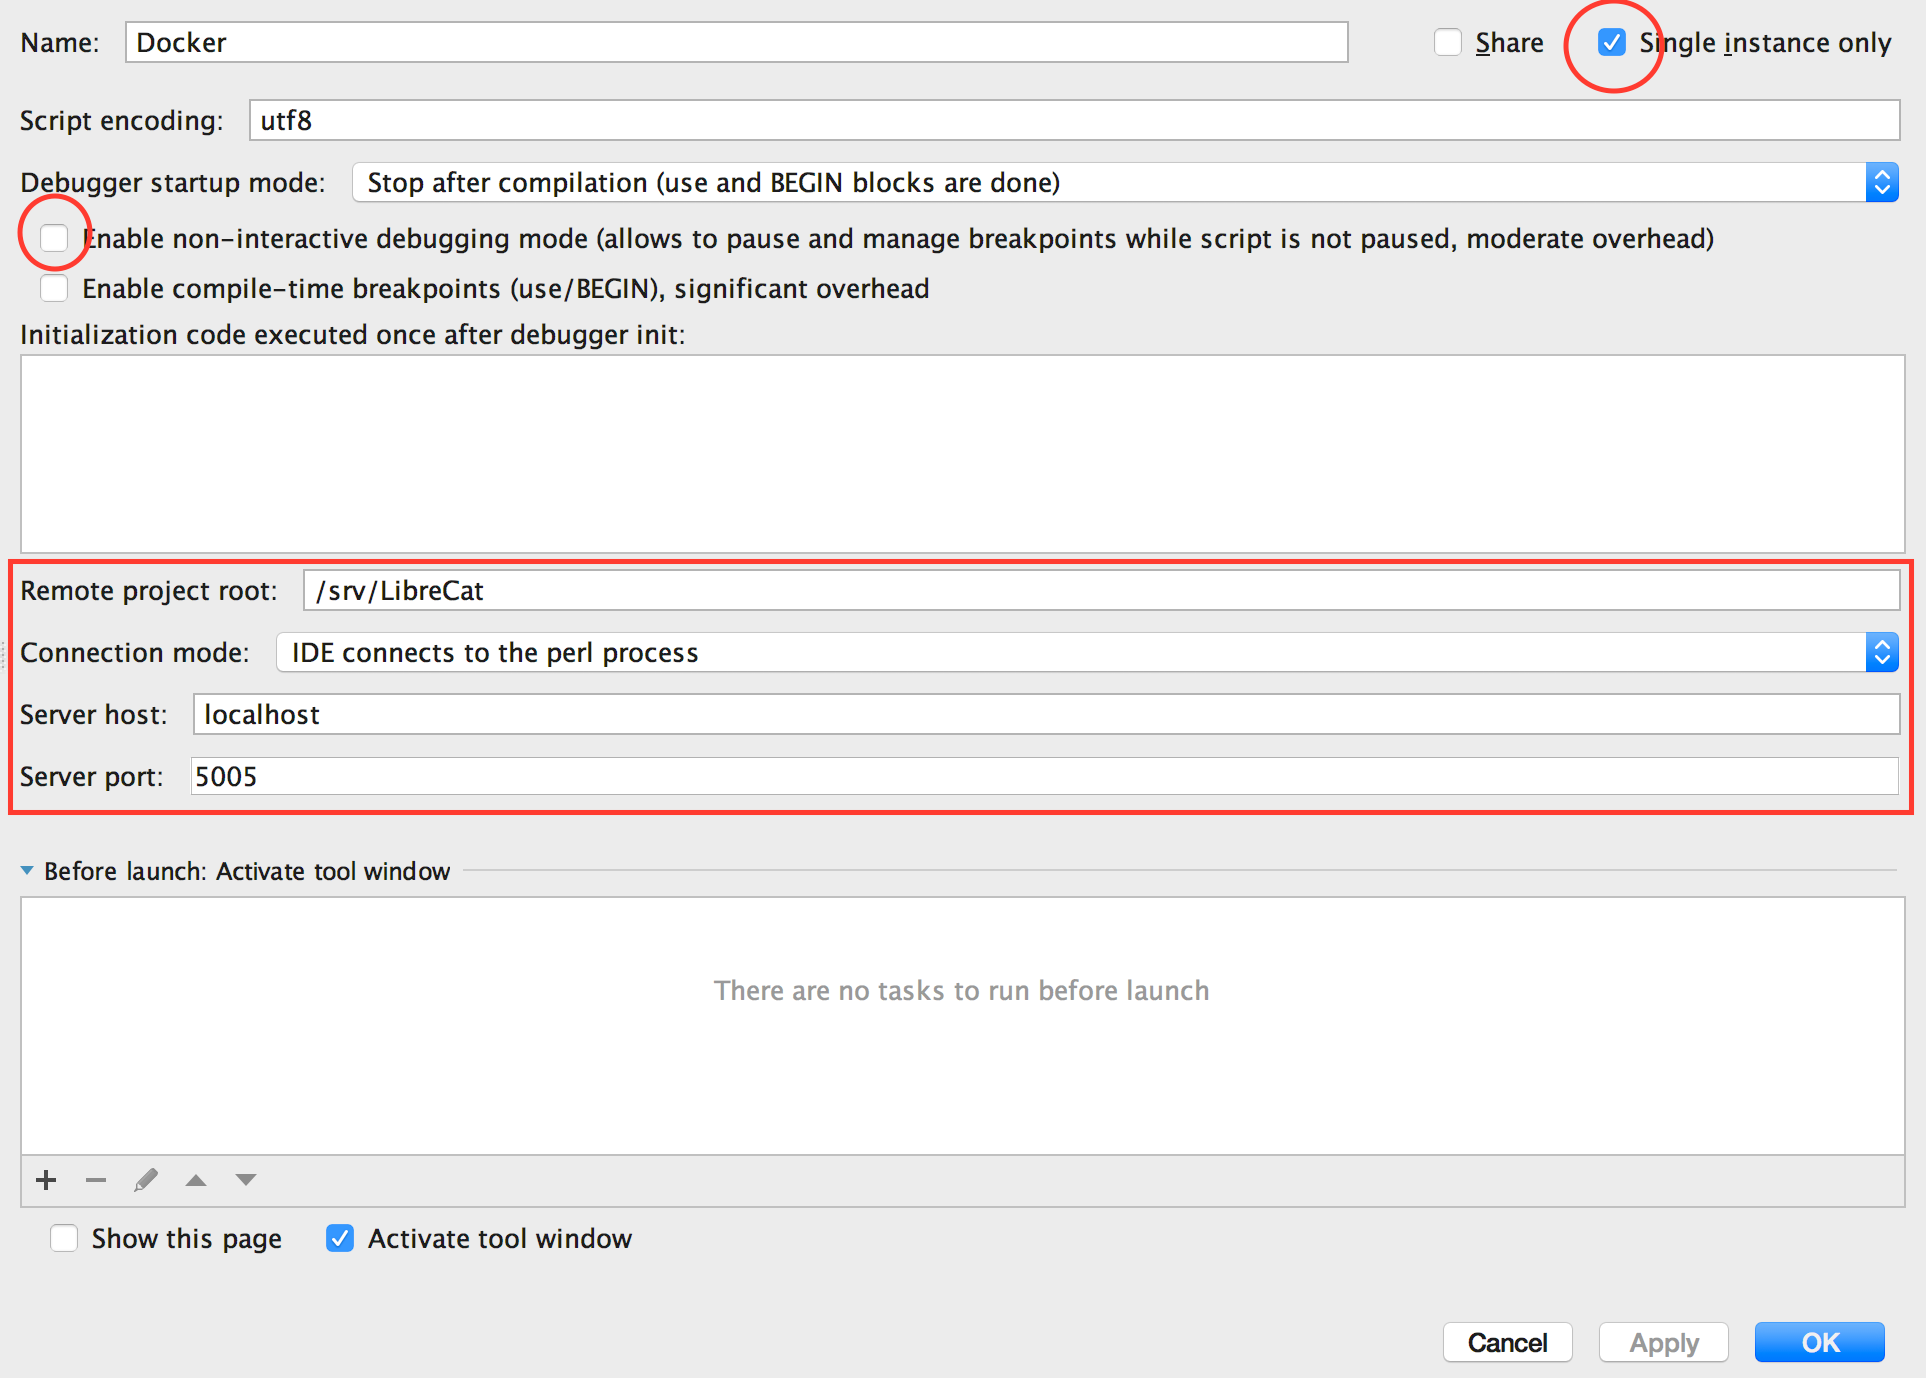
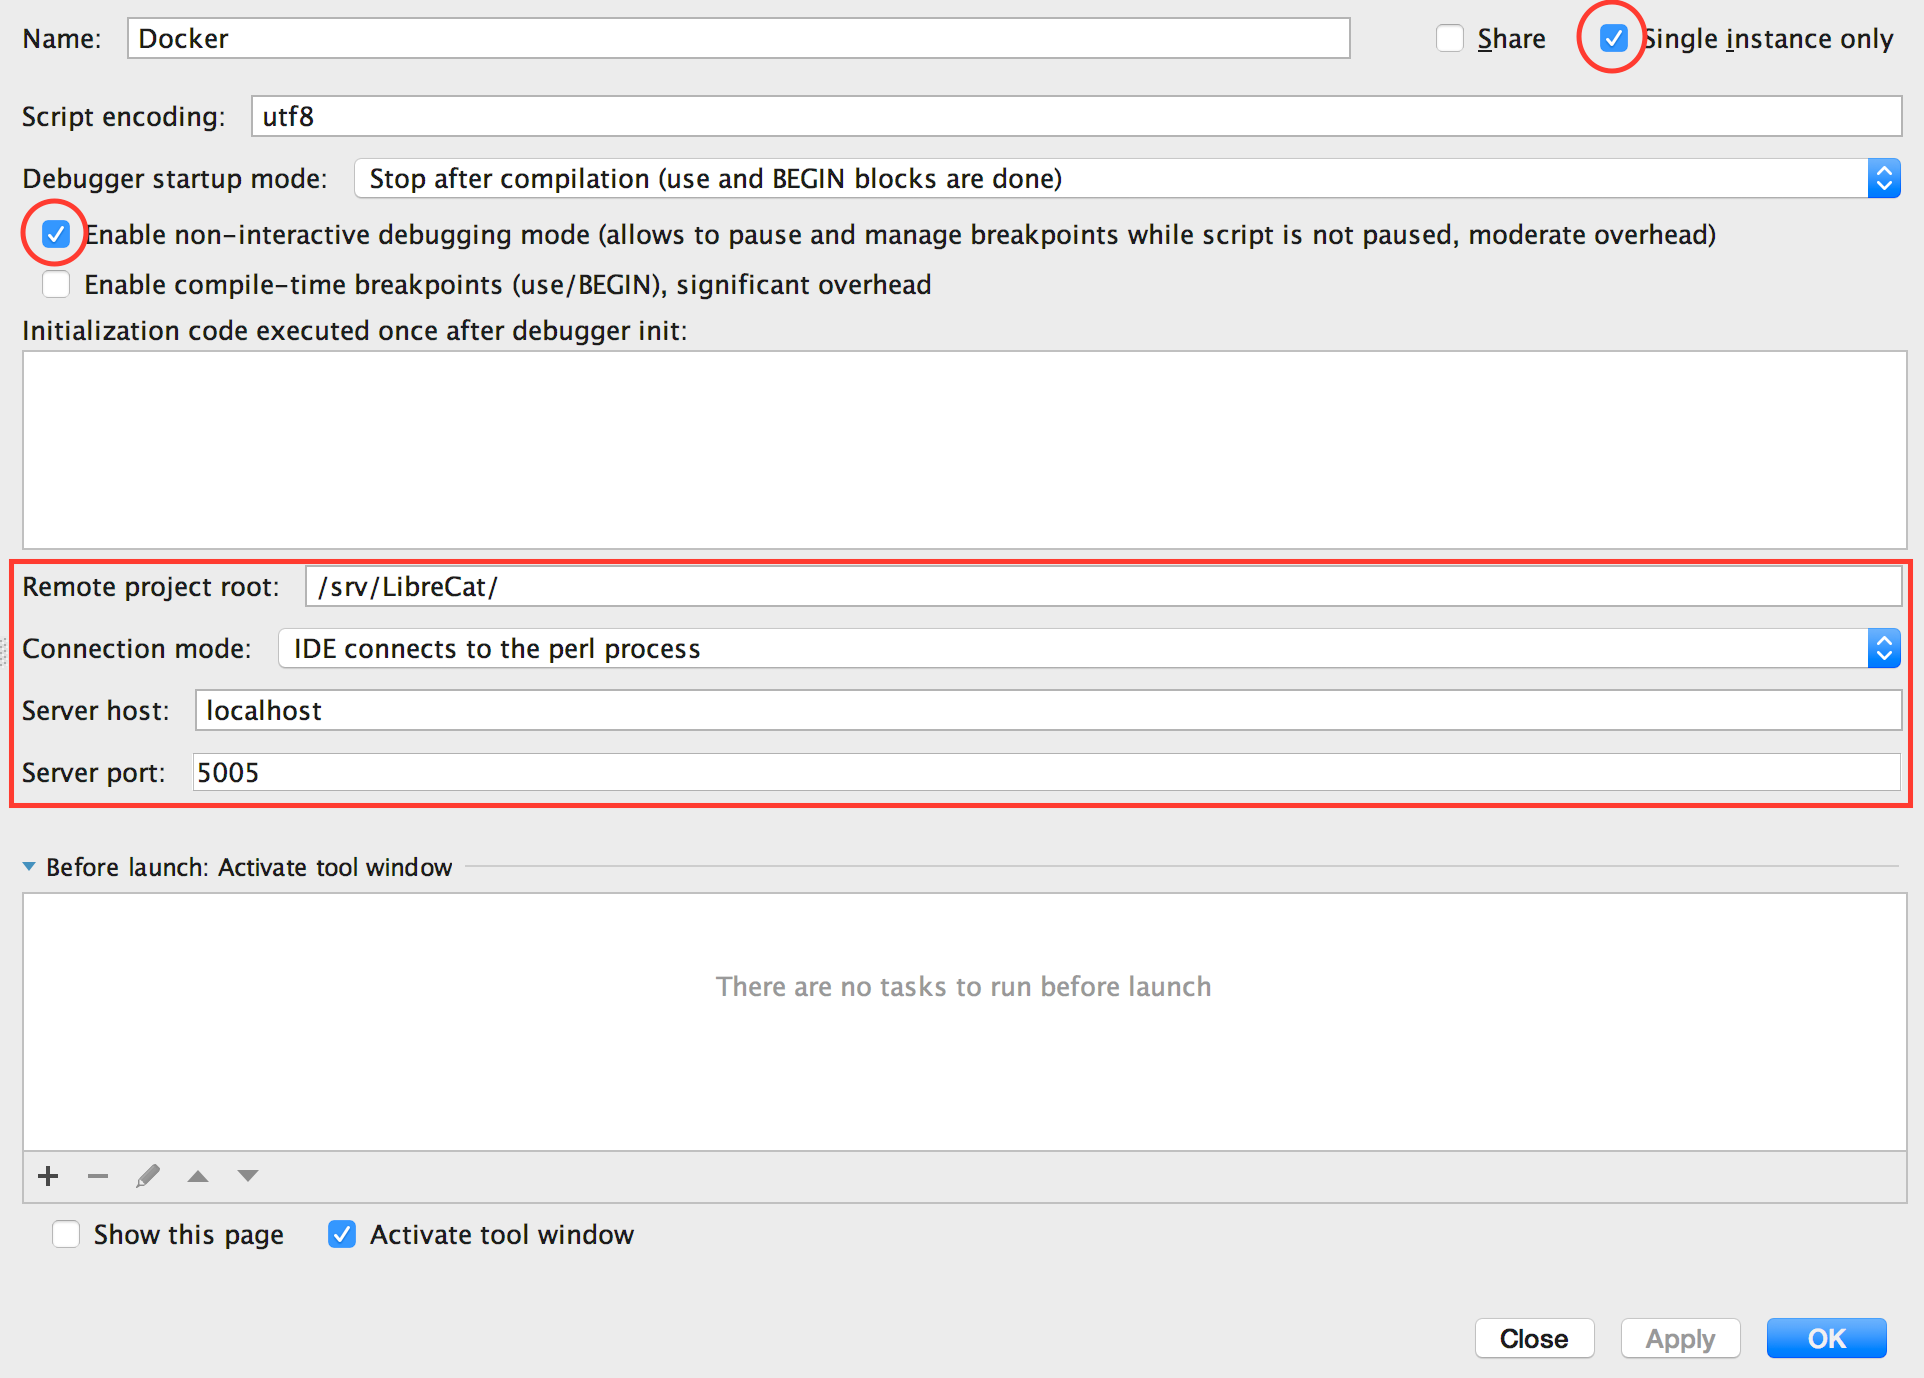
updated docs to make sure the IDE finds the sources

diff --git a/README.md b/README.md
@@ -36,7 +36,7 @@ There is already a documentation how to install and use this bundle in the wiki.
 
 ![Camelcade configuration](docs/img/Camelcade.png)
 
-  Make sure, that 'Single Instance only' is set, enabling non-interactive debugging allows you to suspend the execution at any point, if you take the Docker bundle as provided, the remote project root is `/srv/LibreCat`, the remote process will wait for the debugger to attach, the host will be 'localhost' and the port is '5005'.  
+  Make sure, that 'Single Instance only' is set, enabling non-interactive debugging allows you to suspend the execution at any point, if you take the Docker bundle as provided, the remote project root is `/srv/LibreCat/`, the remote process will wait for the debugger to attach, the host will be 'localhost' and the port is '5005'.  
 
   Then start the bundle with a modified call of `docker-compose`:
 
